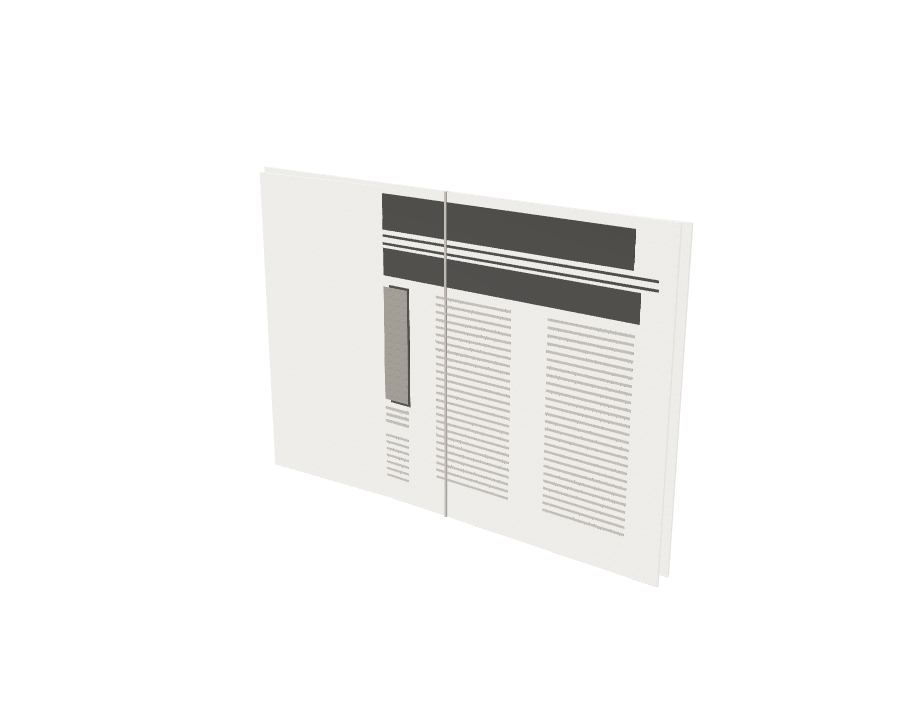
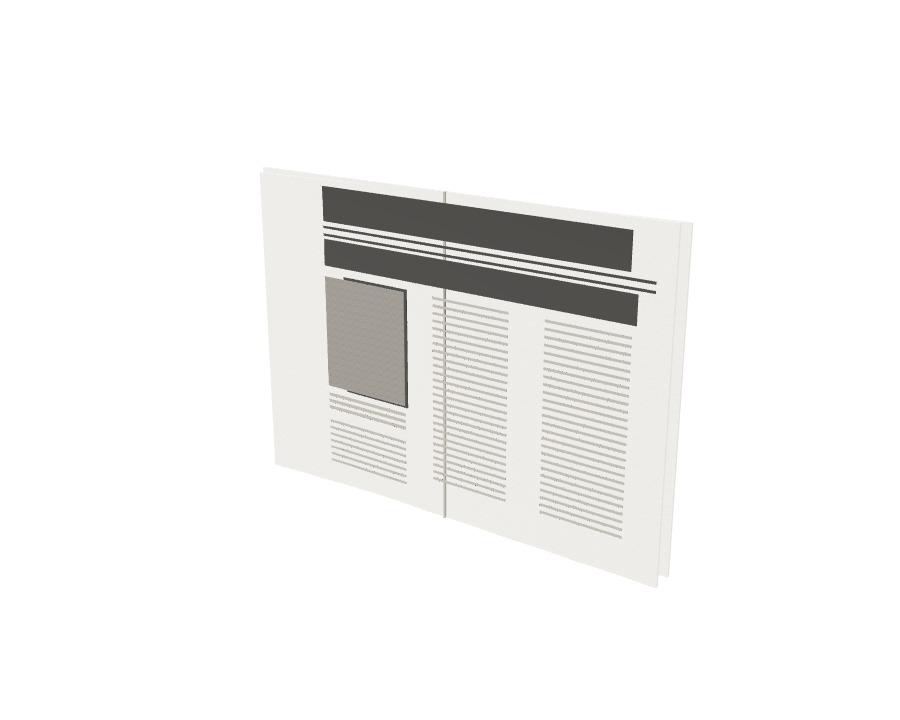
The Fake Surgeon: final scene, review pass, publish pack
Claude-Session: https://claude.ai/code/session_015G11ttkQcTUf66Xjp4yDrT

Changed region(s): [[0.3422, 0.2444, 0.7467, 0.7639]]

diff --git a/scenes/great-impostor/great-impostor.html b/scenes/great-impostor/great-impostor.html
@@ -64,9 +64,9 @@ const CONFIG = {
 // Characters: first URL that loads wins. Best: your own models in the repo's characters/ folder
 // (Avaturn GLB = face + blink/expressions; Mixamo FBX = body). Fallback: sample semi-real man.
 const CAST = {"hero":{"character":"jake","wardrobe":{"top":"#ecebe6","bottom":"#1d2533","shoes":"#141414"}},"p1":{"character":"marcus","wardrobe":{"top":"#5b6248","bottom":"#4a4f3a","shoes":"#2a2018"}},"p2":{"character":"kofi","wardrobe":{"top":"#646b4e","bottom":"#4a4f3a","shoes":"#2a2018"}},"p3":{"character":"kwame","wardrobe":{"top":"#5f664a","bottom":"#4a4f3a","shoes":"#2a2018"}},"doc":{"character":"walt","wardrobe":{"top":"#8a8f99","bottom":"#2f3440","shoes":"#1d1a17"}}};
-const SHOTS = [{"name":"payoff","dur":1.881,"role":"payoff","set":"lab","look":"cinematic","impact":[0.05],"punch":[1.3],"camera":{"move":"crash-zoom","target":"hero","size":"ms","at":0.05,"az":40,"height":0.9,"handheld":0.8},"cast":{"hero":{"pos":[[0,[0.05,0,0.62]]],"rotY":[[0,3.141592653589793]],"clips":[{"clip":"idle","start":0,"end":2.8810000000000002}],"hands":{"both":"pinch"},"reach":[{"hand":"right","to":"p1.chest","offset":[0.04,0.06,0.06],"start":0,"end":1.881},{"hand":"left","to":"p1.chest","offset":[-0.1,0.05,0.08],"start":0,"end":1.881}],"look":[[0,"p1.chest"]],"face":{"squint":[[0,0.6]],"worried":[[0,0.5]]},"acting":"none"},"p1":{"pos":[[0,[0,0.96,0]]],"rotY":[[0,0]],"clips":[{"clip":"die","start":-4,"end":2.8810000000000002,"loop":false}],"acting":"none","face":{"worried":[[0,0.5]]}}},"fx":[{"type":"model","id":"operating_table","height":0.97,"p":[[0,[0,0,0]]]},{"type":"model","id":"instrument_tray","height":1.07,"p":[[0,[1.35,0,0.55]]],"rotY":-0.4},{"type":"model","id":"surgical_lamp","height":1.57,"p":[[0,[0,1.95,0]]]}],"sfx":[{"t":0,"type":"impact","gain":1},{"t":0.05,"type":"whoosh","gain":0.7}]},{"name":"notdoc","dur":1.757,"cut":"glitch","set":"lab","look":"cinematic","camera":{"move":"push","target":"hero","size":"cu","az":25,"handheld":0.5},"cast":{"hero":{"pos":[[0,[0.05,0,0.62]]],"rotY":[[0,3.141592653589793]],"clips":[{"clip":"idle","start":0,"end":2.7569999999999997}],"hands":{"both":"pinch"},"reach":[{"hand":"right","to":"p1.chest","offset":[0.04,0.06,0.06],"start":0,"end":1.757},{"hand":"left","to":"p1.chest","offset":[-0.1,0.05,0.08],"start":0,"end":1.757}],"look":[[0,"p1.chest"],[0.9,[-1.5,1.6,3],"inOutSine"]],"face":{"worried":[[0,0.5],[0.8,1,"outBack"]],"squint":[[0,0.4]]},"acting":"none"},"p1":{"pos":[[0,[0,0.96,0]]],"rotY":[[0,0]],"clips":[{"clip":"die","start":-4,"end":2.7569999999999997,"loop":false}],"acting":"none","face":{"worried":[[0,0.5]]}}},"fx":[{"type":"model","id":"operating_table","height":0.97,"p":[[0,[0,0,0]]]},{"type":"model","id":"instrument_tray","height":1.07,"p":[[0,[1.35,0,0.55]]],"rotY":-0.4},{"type":"model","id":"surgical_lamp","height":1.57,"p":[[0,[0,1.95,0]]]}]},{"name":"year","dur":1.389,"cut":"dip","set":"interior","look":"noir","camera":{"move":"dolly-in","target":"hero","size":"mls","az":-30,"handheld":0.3},"cast":{"hero":{"pos":[[0,[0,0,0]]],"rotY":[[0,0.3]],"clips":[{"clip":"idle","start":0,"end":2.3890000000000002}],"look":[[0,[-2,1.5,2]],[0.8,[2,1.5,2],"inOutSine"]],"face":{"squint":[[0,0.4]]}}}},{"name":"steal","dur":3.237,"set":"interior","look":"noir","punch":[1.8],"camera":{"move":"orbit","target":"hero","size":"ms","az":20,"span":25},"cast":{"hero":{"pos":[[0,[0,0,0]]],"rotY":[[0,0.1]],"clips":[{"clip":"foldarms","start":0,"end":4.237}],"look":[[0,[1,1.6,3]],[1.2,"camera","inOutSine"],[2.2,[-1.5,1.5,3],"inOutSine"]],"face":{"smirk":[[0.4,0],[1.2,0.8]]}}}},{"name":"ship","dur":2.245,"cut":"whip","set":{"type":"ocean","id":"sea","swell":1.2,"calm":0},"look":"cinematic","camera":{"pos":[[0,[-34,5,52]],[2.245,[-24,6,44],"inOutSine"]],"look":[[0,[0,5,0]],[2.245,[6,5,0],"inOutSine"]],"fov":34,"handheld":0.4},"fx":[{"type":"model","id":"destroyer","height":12,"rotY":1.5707963267948966,"p":[[0,[-6,-1.6,0]],[2.245,[2,-1.6,0],"linear"]],"tilt":[[0,[0,0,0.012]],[2.245,[0,0,-0.012],"inOutSine"]]}],"sfx":[{"t":0.1,"type":"swell","gain":0.6}]},{"name":"wounded","dur":1.69,"cut":"smash","set":"lab","look":"cinematic","punch":[0.5],"camera":{"move":"track","target":"hero","size":"mls","side":"left","handheld":0.6},"cast":{"hero":{"pos":[[0,[-2.4,0,1.2]],[1.69,[0.05049999999999999,0,1.2]]],"rotY":[[0,1.5707963267948966]],"clips":[{"clip":"walk","start":0,"end":2.69}],"look":[[0,[1,0.3,0]]],"face":{"worried":[[0,0.9]]}},"p1":{"pos":[[0,[0.6,0,-0.8]]],"rotY":[[0,0]],"clips":[{"clip":"die","start":-4,"end":2.69,"loop":false}],"acting":"none","face":{"worried":[[0,0.6]]}},"p2":{"pos":[[0,[-0.7,0,-1.3]]],"rotY":[[0,0.4]],"clips":[{"clip":"die","start":-4,"end":2.69,"loop":false}],"acting":"none","face":{"worried":[[0,0.6]]}}}},{"name":"sixteen","dur":1.428,"set":"lab","look":"cinematic","punch":[0.1],"camera":{"move":"overhead","target":"p1","size":"ws"},"cast":{"p1":{"pos":[[0,[0.6,0,-0.8]]],"rotY":[[0,0]],"clips":[{"clip":"die","start":-4,"end":2.428,"loop":false}],"acting":"none","face":{"worried":[[0,0.6]]}},"p2":{"pos":[[0,[-0.7,0,-1.3]]],"rotY":[[0,0.4]],"clips":[{"clip":"die","start":-4,"end":2.428,"loop":false}],"acting":"none","face":{"worried":[[0,0.6]]}},"p3":{"pos":[[0,[1.6,0,0.6]]],"rotY":[[0,-0.3]],"clips":[{"clip":"die","start":-4,"end":2.428,"loop":false}],"acting":"none","face":{"worried":[[0,0.6]]}}}},{"name":"book","dur":3.25,"cut":"zoom","set":"interior","look":"noir","time":[[0,0],[3.25,5.8500000000000005]],"camera":{"move":"orbit","target":"hero","size":"ms","az":30,"span":60,"handheld":0.2},"cast":{"hero":{"pos":[[0,[0,0,0]]],"rotY":[[0,0]],"clips":[{"clip":"fix","start":0,"end":6.5}],"hands":{"both":"soft"},"look":[[0,[0.08,0.02,0.5]],[1.2,[-0.1,0.02,0.5]],[2.4,[0.08,0.02,0.5]],[3.6,[-0.1,0.02,0.5]]],"face":{"squint":[[0,0.8]]},"acting":"none"}},"fx":[{"type":"model","id":"textbook","height":0.04,"p":[[0,[0,0,0.5]]]}]},{"name":"operate","dur":0.992,"cut":"whip","set":"lab","look":"cinematic","punch":[0.4],"camera":{"move":"push","target":"hero","size":"ms","az":-40,"handheld":0.5},"cast":{"hero":{"pos":[[0,[0.05,0,0.62]]],"rotY":[[0,3.141592653589793]],"clips":[{"clip":"idle","start":0,"end":1.992}],"hands":{"both":"pinch"},"reach":[{"hand":"right","to":"p1.chest","offset":[0.04,0.06,0.06],"start":0,"end":0.992},{"hand":"left","to":"p1.chest","offset":[-0.1,0.05,0.08],"start":0,"end":0.992}],"look":[[0,"p1.chest"]],"face":{"squint":[[0,0.6]],"worried":[[0,0.5]]},"acting":"none"},"p1":{"pos":[[0,[0,0.96,0]]],"rotY":[[0,0]],"clips":[{"clip":"die","start":-4,"end":1.992,"loop":false}],"acting":"none","face":{"worried":[[0,0.5]]}}},"fx":[{"type":"model","id":"operating_table","height":0.97,"p":[[0,[0,0,0]]]},{"type":"model","id":"instrument_tray","height":1.07,"p":[[0,[1.35,0,0.55]]],"rotY":-0.4},{"type":"model","id":"surgical_lamp","height":1.57,"p":[[0,[0,1.95,0]]]}]},{"name":"bullet","dur":2.347,"cut":"flash","set":"lab","look":"neon-night","camera":{"move":"dolly-in","target":"p1","size":"ms","az":90,"height":1.4},"cast":{"hero":{"pos":[[0,[0.05,0,0.62]]],"rotY":[[0,3.141592653589793]],"clips":[{"clip":"idle","start":0,"end":3.347}],"hands":{"both":"pinch"},"reach":[{"hand":"right","to":"p1.chest","offset":[0.04,0.06,0.06],"start":0,"end":2.347},{"hand":"left","to":"p1.chest","offset":[-0.1,0.05,0.08],"start":0,"end":2.347}],"look":[[0,"p1.chest"]],"face":{"squint":[[0,0.6]],"worried":[[0,0.5]]},"acting":"none"},"p1":{"pos":[[0,[0,0.96,0]]],"rotY":[[0,0]],"clips":[{"clip":"die","start":-4,"end":3.347,"loop":false}],"acting":"none","face":{"worried":[[0,0.5]]},"xray":[[0.1,0],[0.5,1]]}},"fx":[{"type":"model","id":"operating_table","height":0.97,"p":[[0,[0,0,0]]]},{"type":"model","id":"instrument_tray","height":1.07,"p":[[0,[1.35,0,0.55]]],"rotY":-0.4},{"type":"model","id":"surgical_lamp","height":1.57,"p":[[0,[0,1.95,0]]]}]},{"name":"lives","dur":1.334,"cut":"whip","set":"lab","look":"warm-film","camera":{"move":"dolly-out","target":"hero","size":"ws","az":0},"cast":{"hero":{"pos":[[0,[0,0,0]]],"rotY":[[0,0]],"clips":[{"clip":"idle","start":0,"end":2.334}],"face":{"smile":[[0.3,0],[0.9,0.6]]},"look":[[0,[1.2,1.6,0]],[0.6,[-1.2,1.6,0],"inOutSine"]]},"p1":{"pos":[[0,[1.2,0,-0.5]]],"rotY":[[0,-0.5]],"clips":[{"clip":"idle","start":0,"end":2.334}],"gestures":[{"type":"thumbsup","start":0.2,"end":1.334}],"look":[[0,"hero"]],"face":{"smile":[[0,0.7]]}},"p2":{"pos":[[0,[-1.2,0,-0.5]]],"rotY":[[0,0.5]],"clips":[{"clip":"idle","start":0,"end":2.334}],"gestures":[{"type":"clap","start":0.1,"end":1.334}],"look":[[0,"hero"]],"face":{"smile":[[0,0.8]]}}}},{"name":"hero","dur":1.648,"cut":"zoom","set":"city-day","look":"golden-hour","camera":{"move":"low-hero","target":"hero","size":"mls","az":15},"cast":{"hero":{"pos":[[0,[0,0,0]]],"rotY":[[0,0]],"clips":[{"clip":"idle","start":0,"end":2.6479999999999997}],"gestures":[{"type":"hips","start":0.1,"end":1.648}],"look":[[0,[2,2,5]]],"face":{"smile":[[0,0.7]]}}}},{"name":"real","dur":2.216,"cut":"dip","set":"interior","look":"warm-film","camera":{"move":"push","target":"doc","size":"ms","az":-15},"cast":{"doc":{"pos":[[0,[0,0,0]]],"rotY":[[0,0]],"clips":[{"clip":"idle","start":0,"end":3.216}],"reach":[{"hand":"right","to":[0.24,1.2,0.36],"start":0,"end":2.216},{"hand":"left","to":[-0.24,1.2,0.36],"start":0,"end":2.216}],"hands":{"both":"grip"},"look":[[0,[0,1.25,0.36]],[0.9,[0,1.25,0.36]],[1.1,[0.4,1.6,2],"outCubic"]],"face":{"shock":[[0.5,0],[0.9,1,"outBack"]]},"acting":"none"}},"fx":[{"type":"model","id":"newspaper","height":0.42,"p":[[0,[0,1,0.37]]],"tilt":[[0,[-0.25,0,0]]]}]},{"name":"caught","dur":1.069,"cut":"smash","set":"lab","look":"horror","impact":[0.05],"punch":[0.05],"camera":{"move":"dutch","target":"hero","size":"ms","az":10,"roll":0.2,"handheld":1},"cast":{"hero":{"pos":[[0,[0,0,0]]],"rotY":[[0,0]],"clips":[{"clip":"idle","start":0,"end":2.069}],"gestures":[{"type":"handsup","start":0,"end":1.069}],"look":[[0,"camera"]],"face":{"shock":[[0,0.9]]},"acting":"none"}},"sfx":[{"t":0.05,"type":"impact","gain":1}]},{"name":"question","dur":2.607,"cut":"zoom","set":"lab","look":"cinematic","camera":{"move":"dolly-out","target":"hero","size":"ms","az":40,"height":0.9},"cast":{"hero":{"pos":[[0,[0.05,0,0.62]]],"rotY":[[0,3.141592653589793]],"clips":[{"clip":"idle","start":0,"end":3.607}],"hands":{"both":"pinch"},"reach":[{"hand":"right","to":"p1.chest","offset":[0.04,0.06,0.06],"start":0,"end":2.607},{"hand":"left","to":"p1.chest","offset":[-0.1,0.05,0.08],"start":0,"end":2.607}],"look":[[0,"p1.chest"]],"face":{"squint":[[0,0.6]],"worried":[[0,0.5]]},"acting":"none"},"p1":{"pos":[[0,[0,0.96,0]]],"rotY":[[0,0]],"clips":[{"clip":"die","start":-4,"end":3.607,"loop":false}],"acting":"none","face":{"worried":[[0,0.5]]}}},"fx":[{"type":"model","id":"operating_table","height":0.97,"p":[[0,[0,0,0]]]},{"type":"model","id":"instrument_tray","height":1.07,"p":[[0,[1.35,0,0.55]]],"rotY":-0.4},{"type":"model","id":"surgical_lamp","height":1.57,"p":[[0,[0,1.95,0]]]}]}];
+const SHOTS = [{"name":"payoff","dur":1.881,"role":"payoff","set":"lab","look":"cinematic","impact":[0.05],"punch":[1.3],"camera":{"pos":[[0,[-1.6,2.6,-3.4]],[0.35,[-0.8,1.85,-1.9],"outExpo"],[1.881,[-0.65,1.8,-1.65]]],"look":[[0,[0.25,1.3,0.3]]],"fov":42,"handheld":0.8},"cast":{"hero":{"pos":[[0,[0.3,0,0.44]]],"rotY":[[0,3.141592653589793]],"clips":[{"clip":"idle","start":0,"end":2.8810000000000002}],"hands":{"both":"pinch"},"reach":[{"hand":"right","to":"p1.chest","offset":[0.04,0.06,0.06],"start":0.15,"end":2.8810000000000002,"blend":0.4},{"hand":"left","to":"p1.chest","offset":[-0.1,0.05,0.08],"start":0.15,"end":2.8810000000000002,"blend":0.4}],"look":[[0,"p1.chest"]],"face":{"squint":[[0,0.6]],"worried":[[0,0.5]]},"acting":"none"},"p1":{"pos":[[0,[0,1,0]]],"rotY":[[0,-1.5707963267948966]],"clips":[{"clip":"die","fade":0,"start":-12,"end":2.8810000000000002,"loop":false}],"acting":"none","face":{"worried":[[0,0.5]]}}},"fx":[{"type":"model","id":"operating_table","height":0.97,"p":[[0,[0,0,0]]]},{"type":"model","id":"instrument_tray","height":1.07,"p":[[0,[1.35,0,0.55]]],"rotY":-0.4},{"type":"model","id":"surgical_lamp","height":1.57,"p":[[0,[0,2.25,0]]]}],"sfx":[{"t":0,"type":"impact","gain":1},{"t":0.05,"type":"whoosh","gain":0.7}]},{"name":"notdoc","dur":1.757,"cut":"glitch","set":"lab","look":"cinematic","camera":{"move":"push","target":"hero","size":"cu","az":25,"handheld":0.5},"cast":{"hero":{"pos":[[0,[0.3,0,0.44]]],"rotY":[[0,3.141592653589793]],"clips":[{"clip":"idle","start":0,"end":2.7569999999999997}],"hands":{"both":"pinch"},"reach":[{"hand":"right","to":"p1.chest","offset":[0.04,0.06,0.06],"start":-1,"end":2.7569999999999997,"blend":0.01},{"hand":"left","to":"p1.chest","offset":[-0.1,0.05,0.08],"start":-1,"end":2.7569999999999997,"blend":0.01}],"look":[[0,"p1.chest"],[0.9,[-1.5,1.6,3],"inOutSine"]],"face":{"worried":[[0,0.5],[0.8,1,"outBack"]],"squint":[[0,0.4]]},"acting":"none"},"p1":{"pos":[[0,[0,1,0]]],"rotY":[[0,-1.5707963267948966]],"clips":[{"clip":"die","fade":0,"start":-12,"end":2.7569999999999997,"loop":false}],"acting":"none","face":{"worried":[[0,0.5]]}}},"fx":[{"type":"model","id":"operating_table","height":0.97,"p":[[0,[0,0,0]]]},{"type":"model","id":"instrument_tray","height":1.07,"p":[[0,[1.35,0,0.55]]],"rotY":-0.4},{"type":"model","id":"surgical_lamp","height":1.57,"p":[[0,[0,2.25,0]]]}]},{"name":"year","dur":1.389,"cut":"dip","set":"interior","look":"noir","punch":[0.7],"camera":{"move":"crash-zoom","target":"hero","size":"ms","at":0.05,"az":-30,"handheld":0.3},"cast":{"hero":{"pos":[[0,[0,0,0]]],"rotY":[[0,0.3]],"clips":[{"clip":"idle","start":0,"end":2.3890000000000002}],"look":[[0,[-2,1.5,2]],[0.8,[2,1.5,2],"inOutSine"]],"face":{"squint":[[0,0.4]]}}}},{"name":"steal","dur":3.237,"set":"interior","look":"noir","punch":[1.8],"camera":{"move":"orbit","target":"hero","size":"ms","az":20,"span":25},"cast":{"hero":{"pos":[[0,[0,0,0]]],"rotY":[[0,0.1]],"clips":[{"clip":"foldarms","start":0,"end":4.237}],"look":[[0,[1,1.6,3]],[1.2,"camera","inOutSine"],[2.2,[-1.5,1.5,3],"inOutSine"]],"face":{"smirk":[[0.4,0],[1.2,0.8]]}}}},{"name":"ship","dur":2.245,"cut":"whip","set":{"type":"ocean","id":"sea","swell":1.2,"calm":0},"look":"cinematic","camera":{"pos":[[0,[34,1.6,26]],[2.245,[30,2.4,22],"inOutSine"]],"look":[[0,[4,3.2,0]],[2.245,[8,3.4,0],"inOutSine"]],"fov":38,"handheld":0.5},"fx":[{"type":"model","id":"destroyer","height":12,"rotY":1.5707963267948966,"p":[[0,[-4,-1.2,0]],[2.245,[4,-1.2,0],"linear"]],"tilt":[[0,[0,0,0.012]],[2.245,[0,0,-0.012],"inOutSine"]]}],"sfx":[{"t":0.1,"type":"swell","gain":0.6}]},{"name":"wounded","dur":1.69,"cut":"smash","set":"lab","look":"cinematic","punch":[0.5],"camera":{"pos":[[0,[1.6,1.5,3.4]],[1.69,[1.3,1.45,3],"inOutSine"]],"look":[[0,[-0.6,0.7,-0.2]],[1.69,[0.2,0.7,-0.2],"inOutSine"]],"fov":46,"handheld":0.6},"cast":{"hero":{"pos":[[0,[-0.9,0,0.7]],[1.69,[1.5505,0,0.7]]],"rotY":[[0,1.5707963267948966]],"clips":[{"clip":"walk","start":0,"end":2.69}],"look":[[0,[1,0.3,0]]],"face":{"worried":[[0,0.9]]}},"p1":{"pos":[[0,[0.6,0,-0.8]]],"rotY":[[0,0]],"clips":[{"clip":"die","fade":0,"start":-12,"end":2.69,"loop":false}],"acting":"none","face":{"worried":[[0,0.6]]}},"p2":{"pos":[[0,[-0.7,0,-1]]],"rotY":[[0,2.3]],"clips":[{"clip":"die","fade":0,"start":-12,"end":2.69,"loop":false}],"acting":"none","face":{"worried":[[0,0.6]]}}}},{"name":"sixteen","dur":1.428,"set":"lab","look":"cinematic","punch":[0.1],"camera":{"pos":[[0,[2.6,1.3,2.4]],[1.428,[2.2,1.2,2],"inOutSine"]],"look":[[0,[0.3,0.2,-0.3]]],"fov":44},"cast":{"p1":{"pos":[[0,[0.6,0,-0.8]]],"rotY":[[0,0]],"clips":[{"clip":"die","fade":0,"start":-12,"end":2.428,"loop":false}],"acting":"none","face":{"worried":[[0,0.6]]}},"p2":{"pos":[[0,[-0.7,0,-1]]],"rotY":[[0,2.3]],"clips":[{"clip":"die","fade":0,"start":-12,"end":2.428,"loop":false}],"acting":"none","face":{"worried":[[0,0.6]]}},"p3":{"pos":[[0,[1.6,0,0.6]]],"rotY":[[0,-0.3]],"clips":[{"clip":"die","fade":0,"start":-12,"end":2.428,"loop":false}],"acting":"none","face":{"worried":[[0,0.6]]}}}},{"name":"book","dur":3.25,"cut":"zoom","set":"interior","look":"noir","time":[[0,0],[3.25,5.8500000000000005]],"camera":{"pos":[[0,[1.5,0.75,1.1]],[3.25,[1.2,0.7,1.5],"inOutSine"]],"look":[[0,[0,0.45,0.3]]],"fov":40,"handheld":0.2},"cast":{"hero":{"pos":[[0,[0,0,0]]],"rotY":[[0,0]],"clips":[{"clip":"fix","start":0,"end":6.5}],"hands":{"both":"soft"},"look":[[0,[0.08,0.02,0.5]],[1.2,[-0.1,0.02,0.5]],[2.4,[0.08,0.02,0.5]],[3.6,[-0.1,0.02,0.5]]],"face":{"squint":[[0,0.8]]},"acting":"none"}},"fx":[{"type":"model","id":"textbook","height":0.04,"p":[[0,[0,0,0.5]]]}]},{"name":"operate","dur":0.992,"cut":"whip","set":"lab","look":"cinematic","punch":[0.4],"camera":{"pos":[[0,[-0.9,1.8,-1.7]],[0.992,[-0.7,1.75,-1.45],"inOutSine"]],"look":[[0,[0.3,1.3,0.35]]],"fov":42,"handheld":0.5},"cast":{"hero":{"pos":[[0,[0.3,0,0.44]]],"rotY":[[0,3.141592653589793]],"clips":[{"clip":"idle","start":0,"end":1.992}],"hands":{"both":"pinch"},"reach":[{"hand":"right","to":"p1.chest","offset":[0.04,0.06,0.06],"start":0.15,"end":1.992,"blend":0.4},{"hand":"left","to":"p1.chest","offset":[-0.1,0.05,0.08],"start":0.15,"end":1.992,"blend":0.4}],"look":[[0,"p1.chest"]],"face":{"squint":[[0,0.6]],"worried":[[0,0.5]]},"acting":"none"},"p1":{"pos":[[0,[0,1,0]]],"rotY":[[0,-1.5707963267948966]],"clips":[{"clip":"die","fade":0,"start":-12,"end":1.992,"loop":false}],"acting":"none","face":{"worried":[[0,0.5]]}}},"fx":[{"type":"model","id":"operating_table","height":0.97,"p":[[0,[0,0,0]]]},{"type":"model","id":"instrument_tray","height":1.07,"p":[[0,[1.35,0,0.55]]],"rotY":-0.4},{"type":"model","id":"surgical_lamp","height":1.57,"p":[[0,[0,2.25,0]]]}]},{"name":"bullet","dur":2.347,"cut":"flash","set":"void","look":"neon-night","camera":{"pos":[[0,[0.3,2.9,-1.7]],[2.347,[0.2,2.5,-1.3],"inOutSine"]],"look":[[0,[0,1,0]]],"fov":42},"cast":{"p1":{"pos":[[0,[0,1,0]]],"rotY":[[0,-1.5707963267948966]],"clips":[{"clip":"die","fade":0,"start":-12,"end":3.347,"loop":false}],"acting":"none","face":{"worried":[[0,0.5]]},"xray":[[0,0.4],[0.4,1]]}}},{"name":"lives","dur":1.334,"cut":"whip","set":"lab","look":"warm-film","camera":{"move":"dolly-out","target":"hero","size":"mls","az":0},"cast":{"hero":{"pos":[[0,[0,0,0]]],"rotY":[[0,0]],"clips":[{"clip":"idle","start":0,"end":2.334}],"face":{"smile":[[0.3,0],[0.9,0.6]]},"look":[[0,[1.2,1.6,0]],[0.6,[-1.2,1.6,0],"inOutSine"]]},"p1":{"pos":[[0,[0.75,0,-0.3]]],"rotY":[[0,-0.5]],"clips":[{"clip":"idle","start":0,"end":2.334}],"gestures":[{"type":"thumbsup","start":0.2,"end":1.334}],"look":[[0,"hero"]],"face":{"smile":[[0,0.7]]}},"p2":{"pos":[[0,[-0.75,0,-0.3]]],"rotY":[[0,0.5]],"clips":[{"clip":"idle","start":0,"end":2.334}],"gestures":[{"type":"clap","start":0.1,"end":1.334}],"look":[[0,"hero"]],"face":{"smile":[[0,0.8]]}}}},{"name":"hero","dur":1.648,"cut":"zoom","set":"city-day","look":"cinematic","camera":{"move":"low-hero","target":"hero","size":"mls","az":15},"cast":{"hero":{"pos":[[0,[0,0,0]]],"rotY":[[0,0]],"clips":[{"clip":"idle","start":0,"end":2.6479999999999997}],"gestures":[{"type":"hips","start":0.1,"end":1.648}],"look":[[0,[2,2,5]]],"face":{"smile":[[0,0.7]]}}}},{"name":"real","dur":2.216,"cut":"dip","set":"interior","look":"warm-film","camera":{"move":"push","target":"doc","size":"ms","az":-15},"cast":{"doc":{"pos":[[0,[0,0,0]]],"rotY":[[0,0]],"clips":[{"clip":"idle","start":0,"end":3.216}],"reach":[{"hand":"right","to":[0.2,1.05,0.25],"start":0,"end":2.216},{"hand":"left","to":[-0.2,1.05,0.25],"start":0,"end":2.216}],"hands":{"both":"grip"},"look":[[0,[0,1.1,0.34]],[0.45,[0,1.1,0.34]],[0.65,[0.4,1.6,2],"outCubic"]],"face":{"shock":[[0.3,0],[0.6,1,"outBack"]]},"acting":"none"}},"fx":[{"type":"model","id":"newspaper","height":0.42,"p":[[0,[0,0.83,0.26]]],"tilt":[[0,[-0.12,0,0]]]}]},{"name":"caught","dur":1.069,"cut":"smash","set":"lab","look":"horror","punch":[0.05],"camera":{"move":"dutch","target":"hero","size":"ms","az":10,"roll":0.2,"handheld":1},"cast":{"hero":{"pos":[[0,[0,0,0]]],"rotY":[[0,0]],"clips":[{"clip":"idle","start":0,"end":2.069}],"gestures":[{"type":"handsup","start":0,"end":1.069}],"look":[[0,"camera"]],"face":{"shock":[[0,0.9]]},"acting":"none"}},"sfx":[{"t":0.05,"type":"impact","gain":1}]},{"name":"question","dur":2.607,"cut":"zoom","set":"lab","look":"cinematic","camera":{"pos":[[0,[-0.65,1.8,-1.65]],[2.607,[-1.6,2.4,-3],"inOutSine"]],"look":[[0,[0.25,1.3,0.3]]],"fov":42},"cast":{"hero":{"pos":[[0,[0.3,0,0.44]]],"rotY":[[0,3.141592653589793]],"clips":[{"clip":"idle","start":0,"end":3.607}],"hands":{"both":"pinch"},"reach":[{"hand":"right","to":"p1.chest","offset":[0.04,0.06,0.06],"start":0.15,"end":3.607,"blend":0.4},{"hand":"left","to":"p1.chest","offset":[-0.1,0.05,0.08],"start":0.15,"end":3.607,"blend":0.4}],"look":[[0,"p1.chest"]],"face":{"squint":[[0,0.6]],"worried":[[0,0.5]]},"acting":"none"},"p1":{"pos":[[0,[0,1,0]]],"rotY":[[0,-1.5707963267948966]],"clips":[{"clip":"die","fade":0,"start":-12,"end":3.607,"loop":false}],"acting":"none","face":{"worried":[[0,0.5]]}}},"fx":[{"type":"model","id":"operating_table","height":0.97,"p":[[0,[0,0,0]]]},{"type":"model","id":"instrument_tray","height":1.07,"p":[[0,[1.35,0,0.55]]],"rotY":-0.4},{"type":"model","id":"surgical_lamp","height":1.57,"p":[[0,[0,2.25,0]]]}]}];
 const CAPTIONS = [];
-const TITLES = [{"t":0.05,"t1":1.881,"style":"slam","text":"FAKE\nSURGEON","pos":[0.5,0.1],"size":0.1,"accent":"#e8343a"},{"t":2.481,"t1":3.638,"style":"stamp","text":"NOT A DOCTOR","sub":"ZERO MEDICAL TRAINING","pos":[0.5,0.12],"size":0.075,"accent":"#e8343a"},{"t":3.738,"t1":5.027,"style":"wipe","text":"CANADA","sub":"1951","pos":[0.5,0.12]},{"t":5.127,"t1":6.627,"style":"wipe","text":"FERDINAND DEMARA","sub":"THE GREAT IMPOSTOR","pos":[0.5,0.12]},{"t":6.727,"t1":8.264,"style":"stamp","text":"DR. JOSEPH CYR","sub":"A STOLEN NAME","pos":[0.5,0.12],"size":0.07,"accent":"#e8343a"},{"t":8.464,"t1":10.509,"style":"wipe","text":"HMCS CAYUGA","sub":"WARSHIP · KOREAN WAR","pos":[0.5,0.12]},{"t":12.249,"t1":13.627,"style":"stat","value":16,"max":16,"suffix":"","text":"WOUNDED","pos":[0.5,0.14]},{"t":14.027,"t1":16.877,"style":"callout","at":[0,0.05,0.5],"text":"SURGERY TEXTBOOK","sub":"ONE NIGHT","side":1},{"t":18.369,"t1":20.216,"style":"callout","at":"p1.heart","text":"BULLET","sub":"1 INCH FROM THE HEART","side":-1},{"t":20.316,"t1":21.55,"style":"stamp","text":"16 / 16 LIVED","pos":[0.5,0.12],"size":0.075,"accent":"#2fbf5f"},{"t":21.65,"t1":23.198,"style":"slam","text":"HERO\nDOCTOR","pos":[0.5,0.1],"size":0.1,"accent":"#e8343a"},{"t":23.398,"t1":25.414,"style":"wipe","text":"THE REAL DR. CYR","sub":"READS THE NEWS","pos":[0.5,0.12]},{"t":25.464,"t1":26.483,"style":"stamp","text":"IMPOSTOR","pos":[0.5,0.12],"size":0.11,"accent":"#e8343a"},{"t":26.583,"t1":29.09,"style":"slam","text":"WOULD YOU\nLET HIM?","pos":[0.5,0.1],"size":0.09,"accent":"#e8343a"}];
+const TITLES = [{"t":0.05,"t1":1.881,"style":"slam","text":"FAKE\nSURGEON","pos":[0.5,0.075],"size":0.08,"accent":"#e8343a"},{"t":2.481,"t1":3.638,"style":"stamp","text":"NOT A DOCTOR","sub":"ZERO MEDICAL TRAINING","pos":[0.5,0.12],"size":0.075,"accent":"#e8343a"},{"t":5.127,"t1":6.627,"style":"wipe","text":"FERDINAND DEMARA","sub":"THE GREAT IMPOSTOR","pos":[0.5,0.12]},{"t":6.727,"t1":8.264,"style":"stamp","text":"DR. JOSEPH CYR","sub":"A STOLEN NAME","pos":[0.5,0.12],"size":0.07,"accent":"#e8343a"},{"t":8.464,"t1":10.509,"style":"wipe","text":"HMCS CAYUGA","sub":"WARSHIP · KOREAN WAR","pos":[0.5,0.12]},{"t":12.249,"t1":13.627,"style":"stat","value":16,"max":16,"suffix":"","text":"WOUNDED","pos":[0.5,0.14]},{"t":14.027,"t1":16.627,"style":"stamp","text":"ONE NIGHT","sub":"ONE SURGERY TEXTBOOK","pos":[0.5,0.12],"size":0.07,"accent":"#e8343a"},{"t":18.369,"t1":20.216,"style":"callout","at":"p1.heart","text":"BULLET","sub":"1 INCH FROM THE HEART","side":-1},{"t":21.65,"t1":23.198,"style":"slam","text":"HERO\nDOCTOR","pos":[0.5,0.1],"size":0.1,"accent":"#e8343a"},{"t":23.398,"t1":25.164,"style":"wipe","text":"THE REAL DR. CYR","sub":"READS THE NEWS","pos":[0.5,0.12]},{"t":25.464,"t1":26.483,"style":"stamp","text":"IMPOSTOR","pos":[0.5,0.12],"size":0.11,"accent":"#e8343a"},{"t":26.583,"t1":29.09,"style":"slam","text":"WOULD YOU\nLET HIM?","pos":[0.5,0.075],"size":0.075,"accent":"#e8343a"}];
 const THUMBS = [{"shot":1,"t":0.6,"text":"FAKE\nSURGEON","hi":["SURGEON"],"accent":"#e8343a","face":{"hero":{"worried":1,"squint":0.6}},"size":"cu","side":"left"},{"shot":9,"t":1.2,"text":"NOT A\nDOCTOR","hi":["DOCTOR"],"accent":"#e8343a","side":"right"}];
 
 /* ============================== END DIRECTION ============================== */

diff --git a/scenes/great-impostor/direction.js b/scenes/great-impostor/direction.js
@@ -54,8 +54,8 @@ S('notdoc', { cut: 'glitch', set: 'lab', look: 'cinematic',
   camera: { move: 'push', target: 'hero', size: 'cu', az: 25, handheld: 0.5 },
   cast: { hero: SURG(dur('notdoc'), { look: [[0, 'p1.chest'], [0.9, [-1.5, 1.6, 3], 'inOutSine']], face: { worried: [[0, 0.5], [0.8, 1, 'outBack']], squint: [[0, 0.4]] } }), p1: PAT(dur('notdoc')) }, fx: OR() });
 // 3 · "1951." — a quiet room at night
-S('year', { cut: 'dip', set: 'interior', look: 'noir',
-  camera: { move: 'dolly-in', target: 'hero', size: 'mls', az: -30, handheld: 0.3 },
+S('year', { cut: 'dip', set: 'interior', look: 'noir', punch: [0.7],
+  camera: { move: 'crash-zoom', target: 'hero', size: 'ms', at: 0.05, az: -30, handheld: 0.3 },
   cast: { hero: { pos: at0(0, 0, 0), rotY: [[0, 0.3]], clips: idle(dur('year')), look: [[0, [-2, 1.5, 2]], [0.8, [2, 1.5, 2], 'inOutSine']], face: { squint: [[0, 0.4]] } } } });
 // 4 · "Ferdinand Demara steals a real doctor's name"
 S('steal', { set: 'interior', look: 'noir', punch: [1.8],
@@ -68,13 +68,13 @@ S('ship', { cut: 'whip', set: SEA, look: 'cinematic',
   sfx: [{ t: 0.1, type: 'swell', gain: 0.6 }] });
 // 6 · "Then the wounded arrive."
 S('wounded', { cut: 'smash', set: 'lab', look: 'cinematic', punch: [0.5],
-  camera: { move: 'track', target: 'hero', size: 'mls', side: 'left', handheld: 0.6 },
-  cast: { hero: { pos: [[0, [-2.4, 0, 1.2]], [dur('wounded'), [-2.4 + 1.45 * dur('wounded'), 0, 1.2]]], rotY: [[0, P / 2]], clips: [{ clip: 'walk', start: 0, end: dur('wounded') + 1 }], look: [[0, [1, 0.3, 0]]], face: { worried: [[0, 0.9]] } },
-    p1: FLOOR(dur('wounded'), { pos: at0(0.6, 0, -0.8) }), p2: FLOOR(dur('wounded'), { pos: at0(-0.7, 0, -1.3), rotY: [[0, 0.4]] }) } });
+  camera: { pos: [[0, [1.6, 1.5, 3.4]], [dur('wounded'), [1.3, 1.45, 3.0], 'inOutSine']], look: [[0, [-0.6, 0.7, -0.2]], [dur('wounded'), [0.2, 0.7, -0.2], 'inOutSine']], fov: 46, handheld: 0.6 },
+  cast: { hero: { pos: [[0, [-0.9, 0, 0.7]], [dur('wounded'), [-0.9 + 1.45 * dur('wounded'), 0, 0.7]]], rotY: [[0, P / 2]], clips: [{ clip: 'walk', start: 0, end: dur('wounded') + 1 }], look: [[0, [1, 0.3, 0]]], face: { worried: [[0, 0.9]] } },
+    p1: FLOOR(dur('wounded'), { pos: at0(0.6, 0, -0.8) }), p2: FLOOR(dur('wounded'), { pos: at0(-0.7, 0, -1.0), rotY: [[0, 2.3]] }) } });
 // 7 · "Sixteen of them." — overhead on the bodies
 S('sixteen', { set: 'lab', look: 'cinematic', punch: [0.1],
-  camera: { move: 'overhead', target: 'p1', size: 'ws' },
-  cast: { p1: FLOOR(dur('sixteen'), { pos: at0(0.6, 0, -0.8) }), p2: FLOOR(dur('sixteen'), { pos: at0(-0.7, 0, -1.3), rotY: [[0, 0.4]] }), p3: FLOOR(dur('sixteen'), { pos: at0(1.6, 0, 0.6), rotY: [[0, -0.3]] }) } });
+  camera: { pos: [[0, [2.6, 1.3, 2.4]], [dur('sixteen'), [2.2, 1.2, 2.0], 'inOutSine']], look: [[0, [0.3, 0.2, -0.3]]], fov: 44 },
+  cast: { p1: FLOOR(dur('sixteen'), { pos: at0(0.6, 0, -0.8) }), p2: FLOOR(dur('sixteen'), { pos: at0(-0.7, 0, -1.0), rotY: [[0, 2.3]] }), p3: FLOOR(dur('sixteen'), { pos: at0(1.6, 0, 0.6), rotY: [[0, -0.3]] }) } });
 // 8 · "He locks his door and speed-reads a surgery textbook."
 S('book', { cut: 'zoom', set: 'interior', look: 'noir', time: [[0, 0], [dur('book'), dur('book') * 1.8]],
   camera: { pos: [[0, [1.5, 0.75, 1.1]], [dur('book'), [1.2, 0.7, 1.5], 'inOutSine']], look: [[0, [0, 0.45, 0.3]]], fov: 40, handheld: 0.2 },
@@ -82,26 +82,26 @@ S('book', { cut: 'zoom', set: 'interior', look: 'noir', time: [[0, 0], [dur('boo
   fx: [{ type: 'model', id: 'textbook', height: 0.04, p: [[0, [0, 0, 0.5]]] }] });
 // 9 · "Then he operates."
 S('operate', { cut: 'whip', set: 'lab', look: 'cinematic', punch: [0.4],
-  camera: { pos: [[0, [-1.9, 1.55, 2.1]], [dur('operate'), [-1.55, 1.5, 1.75], 'inOutSine']], look: [[0, [0.1, 1.15, 0.2]]], fov: 46, handheld: 0.5 },
+  camera: { pos: [[0, [-0.9, 1.8, -1.7]], [dur('operate'), [-0.7, 1.75, -1.45], 'inOutSine']], look: [[0, [0.3, 1.3, 0.35]]], fov: 42, handheld: 0.5 },
   cast: { hero: SURG(dur('operate'), {}, 0.15, 0.4), p1: PAT(dur('operate')) }, fx: OR() });
 // 10 · "The bullet sits an inch from the heart." — x-ray
 S('bullet', { cut: 'flash', set: 'void', look: 'neon-night',
   camera: { pos: [[0, [0.3, 2.9, -1.7]], [dur('bullet'), [0.2, 2.5, -1.3], 'inOutSine']], look: [[0, [0, 1.0, 0]]], fov: 42 },
-  cast: { p1: PAT(dur('bullet'), { xray: [[0, 0.4], [0.4, 1]] }) }, fx: OR() });
+  cast: { p1: PAT(dur('bullet'), { xray: [[0, 0.4], [0.4, 1]] }) } });
 // 11 · "Every patient lives."
 S('lives', { cut: 'whip', set: 'lab', look: 'warm-film',
-  camera: { move: 'dolly-out', target: 'hero', size: 'ws', az: 0 },
+  camera: { move: 'dolly-out', target: 'hero', size: 'mls', az: 0 },
   cast: { hero: { pos: at0(0, 0, 0), rotY: [[0, 0]], clips: idle(dur('lives')), face: { smile: [[0.3, 0], [0.9, 0.6]] }, look: [[0, [1.2, 1.6, 0]], [0.6, [-1.2, 1.6, 0], 'inOutSine']] },
-    p1: { pos: at0(1.2, 0, -0.5), rotY: [[0, -0.5]], clips: idle(dur('lives')), gestures: [{ type: 'thumbsup', start: 0.2, end: dur('lives') }], look: [[0, 'hero']], face: { smile: [[0, 0.7]] } },
-    p2: { pos: at0(-1.2, 0, -0.5), rotY: [[0, 0.5]], clips: idle(dur('lives')), gestures: [{ type: 'clap', start: 0.1, end: dur('lives') }], look: [[0, 'hero']], face: { smile: [[0, 0.8]] } } } });
+    p1: { pos: at0(0.75, 0, -0.3), rotY: [[0, -0.5]], clips: idle(dur('lives')), gestures: [{ type: 'thumbsup', start: 0.2, end: dur('lives') }], look: [[0, 'hero']], face: { smile: [[0, 0.7]] } },
+    p2: { pos: at0(-0.75, 0, -0.3), rotY: [[0, 0.5]], clips: idle(dur('lives')), gestures: [{ type: 'clap', start: 0.1, end: dur('lives') }], look: [[0, 'hero']], face: { smile: [[0, 0.8]] } } } });
 // 12 · "Newspapers call him a hero."
-S('hero', { cut: 'zoom', set: 'city-day', look: 'golden-hour',
+S('hero', { cut: 'zoom', set: 'city-day', look: 'cinematic',
   camera: { move: 'low-hero', target: 'hero', size: 'mls', az: 15 },
   cast: { hero: { pos: at0(0, 0, 0), rotY: [[0, 0]], clips: idle(dur('hero')), gestures: [{ type: 'hips', start: 0.1, end: dur('hero') }], look: [[0, [2, 2, 5]]], face: { smile: [[0, 0.7]] } } } });
 // 13 · "The real doctor sees the story."
 S('real', { cut: 'dip', set: 'interior', look: 'warm-film',
   camera: { move: 'push', target: 'doc', size: 'ms', az: -15 },
-  cast: { doc: { pos: at0(0, 0, 0), rotY: [[0, 0]], clips: idle(dur('real')), reach: [{ hand: 'right', to: [0.2, 1.05, 0.25], start: 0, end: dur('real') }, { hand: 'left', to: [-0.2, 1.05, 0.25], start: 0, end: dur('real') }], hands: { both: 'grip' }, look: [[0, [0, 1.1, 0.34]], [0.9, [0, 1.1, 0.34]], [1.1, [0.4, 1.6, 2], 'outCubic']], face: { shock: [[0.5, 0], [0.9, 1, 'outBack']] }, acting: 'none' } },
+  cast: { doc: { pos: at0(0, 0, 0), rotY: [[0, 0]], clips: idle(dur('real')), reach: [{ hand: 'right', to: [0.2, 1.05, 0.25], start: 0, end: dur('real') }, { hand: 'left', to: [-0.2, 1.05, 0.25], start: 0, end: dur('real') }], hands: { both: 'grip' }, look: [[0, [0, 1.1, 0.34]], [0.45, [0, 1.1, 0.34]], [0.65, [0.4, 1.6, 2], 'outCubic']], face: { shock: [[0.3, 0], [0.6, 1, 'outBack']] }, acting: 'none' } },
   fx: [{ type: 'model', id: 'newspaper', height: 0.42, p: [[0, [0, 0.83, 0.26]]], tilt: [[0, [-0.12, 0, 0]]] }] });
 // 14 · "Caught."
 S('caught', { cut: 'smash', set: 'lab', look: 'horror', punch: [0.05],
@@ -110,7 +110,7 @@ S('caught', { cut: 'smash', set: 'lab', look: 'horror', punch: [0.05],
   sfx: [{ t: 0.05, type: 'impact', gain: 1 }] });
 // 15 · back to the surgery (loop)
 S('question', { cut: 'zoom', set: 'lab', look: 'cinematic',
-  camera: { pos: [[0, [1.3, 1.65, 1.95]], [dur('question'), [2.6, 2.2, 3.2], 'inOutSine']], look: [[0, [0.1, 1.35, 0.1]]], fov: 42 },
+  camera: { pos: [[0, [-0.65, 1.8, -1.65]], [dur('question'), [-1.6, 2.4, -3.0], 'inOutSine']], look: [[0, [0.25, 1.3, 0.3]]], fov: 42 },
   cast: { hero: SURG(dur('question'), {}, 0.15, 0.4), p1: PAT(dur('question')) }, fx: OR() });
 
 // ---------- motion graphics (one system: slam · stamp · wipe · callout · stat) ----------
@@ -121,10 +121,10 @@ const titles = [
   { t: at('steal', 1.7), t1: at('ship'), style: 'stamp', text: 'DR. JOSEPH CYR', sub: 'A STOLEN NAME', pos: [0.5, 0.12], size: 0.07, accent: ACC },
   { t: at('ship', 0.2), t1: at('wounded'), style: 'wipe', text: 'HMCS CAYUGA', sub: 'WARSHIP · KOREAN WAR', pos: [0.5, 0.12] },
   { t: at('sixteen', 0.05), t1: at('book'), style: 'stat', value: 16, max: 16, suffix: '', text: 'WOUNDED', pos: [0.5, 0.14] },
-  { t: at('book', 0.4), t1: at('operate'), style: 'stamp', text: 'ONE NIGHT', sub: 'ONE SURGERY TEXTBOOK', pos: [0.5, 0.12], size: 0.07, accent: ACC },
+  { t: at('book', 0.4), t1: at('operate', -0.25), style: 'stamp', text: 'ONE NIGHT', sub: 'ONE SURGERY TEXTBOOK', pos: [0.5, 0.12], size: 0.07, accent: ACC },
   { t: at('bullet', 0.5), t1: at('lives'), style: 'callout', at: 'p1.heart', text: 'BULLET', sub: '1 INCH FROM THE HEART', side: -1 },
   { t: at('hero', 0.1), t1: at('real'), style: 'slam', text: 'HERO\nDOCTOR', pos: [0.5, 0.1], size: 0.1, accent: ACC },
-  { t: at('real', 0.2), t1: at('caught'), style: 'wipe', text: 'THE REAL DR. CYR', sub: 'READS THE NEWS', pos: [0.5, 0.12] },
+  { t: at('real', 0.2), t1: at('caught', -0.25), style: 'wipe', text: 'THE REAL DR. CYR', sub: 'READS THE NEWS', pos: [0.5, 0.12] },
   { t: at('caught', 0.05), t1: at('question'), style: 'stamp', text: 'IMPOSTOR', pos: [0.5, 0.12], size: 0.11, accent: ACC },
   { t: at('question', 0.1), t1: END, style: 'slam', text: 'WOULD YOU\nLET HIM?', pos: [0.5, 0.075], size: 0.075, accent: ACC },
 ];

diff --git a/scenes/great-impostor/tools/auto.js b/scenes/great-impostor/tools/auto.js
@@ -45,6 +45,6 @@ const E = {
  C34: `round ${N} master: ${note}; audio ${av.audio}, ${av.fps}fps constant`,
  C35: `round ${N} full watch (per_second.jpg sound on/off): no flinch beyond FAIL items logged this round`,
 };
-const P = { C04: ['narration_notes.txt'], C17: ['mix_notes.txt'], C34: ['mix_notes.txt'], C24: ['facts_notes.txt'], C30: ['narration_notes.txt'], C32: ['retention_notes.txt'], C33: ['alt_notes.txt'], C29: ['spectrum.png'], C18: ['wave_r.png'], C19: ['wave_r.png'], C27: ['hands_band.jpg'], C28: ['faces_band.jpg'], C31: ['words.csv'], C12: ['strip_payoff.jpg', 'strip_wounded.jpg'], C26: ['strip_caught.jpg'], C23: ['per_second.jpg'], C35: ['per_second.jpg'], C05: ['audio_per_shot.csv'], C25: ['full_sheet.jpg'] };
+const P = { C04: ['narration_notes.txt'], C17: ['mix_notes.txt'], C34: ['mix_notes.txt'], C24: ['facts_notes.txt'], C30: ['narration_notes.txt'], C32: ['retention_notes.txt'], C33: ['alt_notes.txt'], C29: ['spectrum.png'], C18: ['wave_r.png'], C19: ['wave_r.png'], C27: ['hands_band.jpg'], C28: ['faces_band.jpg'], C31: ['words.csv'], C12: ['strip_payoff.jpg', 'strip_wounded.jpg'], C26: ['strip_caught.jpg'], C23: ['per_second.jpg'], C35: ['per_second.jpg'], C05: ['audio_per_shot.csv'], C25: [fs.existsSync(path.join(R, 'full_sheet.jpg')) ? 'full_sheet.jpg' : 'shots_3pt.jpg'] };
 const out = {}; for (const id of Object.keys(E)) out[id] = F[id] || ['PASS', E[id], P[id] || ['shots_3pt.jpg']];
 const tmp = path.join(R, '_fill.json'); fs.writeFileSync(tmp, JSON.stringify(out)); require('child_process').execFileSync('node', [path.join(__dirname, 'fill.js'), String(N), tmp], { stdio: 'inherit' }); fs.rmSync(tmp);

diff --git a/.motion-forge/state.md b/.motion-forge/state.md
@@ -1,4 +1,6 @@
 # Motion Forge state
+- Last video: "The Fake Surgeon" (Ferdinand Demara, HMCS Cayuga 1951) — scenes/great-impostor (direction.js → build.js). Artifact: https://claude.ai/artifact/AfL9FbnJ1wXTZpuZc2sZxz · star Jake · good/maximum · 29.1s · REVIEW PASS 6 rounds.
+- New: Forge 3D Ultra props destroyer, operating_table, textbook, instrument_tray, surgical_lamp, newspaper (assets/models); scenes/great-impostor/forge (spec → GLB exporters). Sir: always use Forge 3D (Ultra) for assets; download if Forge is not good enough.
 - Last video: "133 Days Alone" (Poon Lim true story) — scenes/poon-lim (direction.js → build.js → poon-lim.html). Artifact: https://claude.ai/artifact/WC3n76taM98jg4KYbpLuav · star Jake, fishermen Luis + Marcus · good/maximum · 34.5s · VO Kokoro am_michael (BASE 1.05).
 - New (approved by Sir): ocean set, sea ambience, model tilt/flat, cast swimming flag, Kenney Pirate Kit CC0 sea models, scripts/glb_embed.js; render mux 48 kHz + alimiter (true peak ≤ -1 dBTP).
 - Sir's orders: SILENT/PRIVATE — no progress messages, no photos/image reads shown.
@@ -8,6 +10,7 @@
 - Standing orders: address as sir; no summaries; ask quality+effort per video; outside assets need AskUserQuestion approval.
 
 ## SIR'S TASTE (standing orders for every video — add a line for every reaction)
+- Props/assets: Forge 3D on Ultra first; download only if Forge results are not good; add improvements freely.
 - Every video ≤ 30 s unless Sir names a longer length.
 - Hates things morphing into each other: no bodies/limbs through each other, no pose-blend "morphs", no dissolves — change posture on a cut.
 - Hates the mixed "old AI + new AI" look: one design system per video (one accent, one caption style, 3–4 title styles), clean type, small overshoot.
